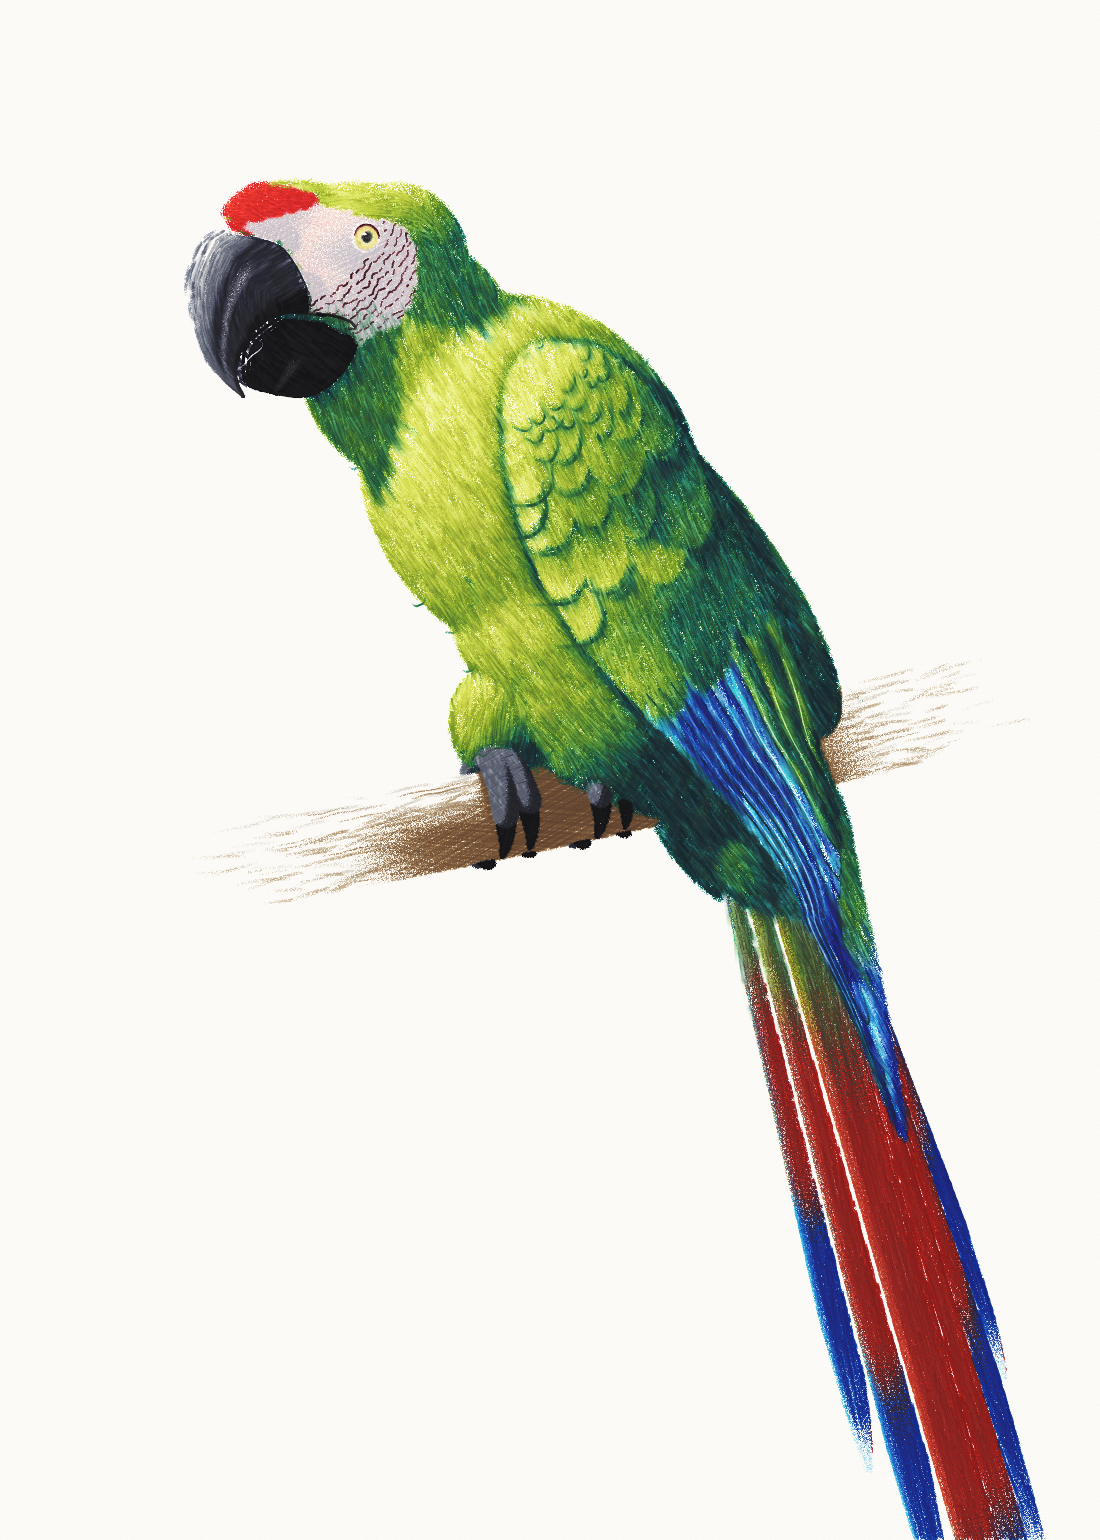
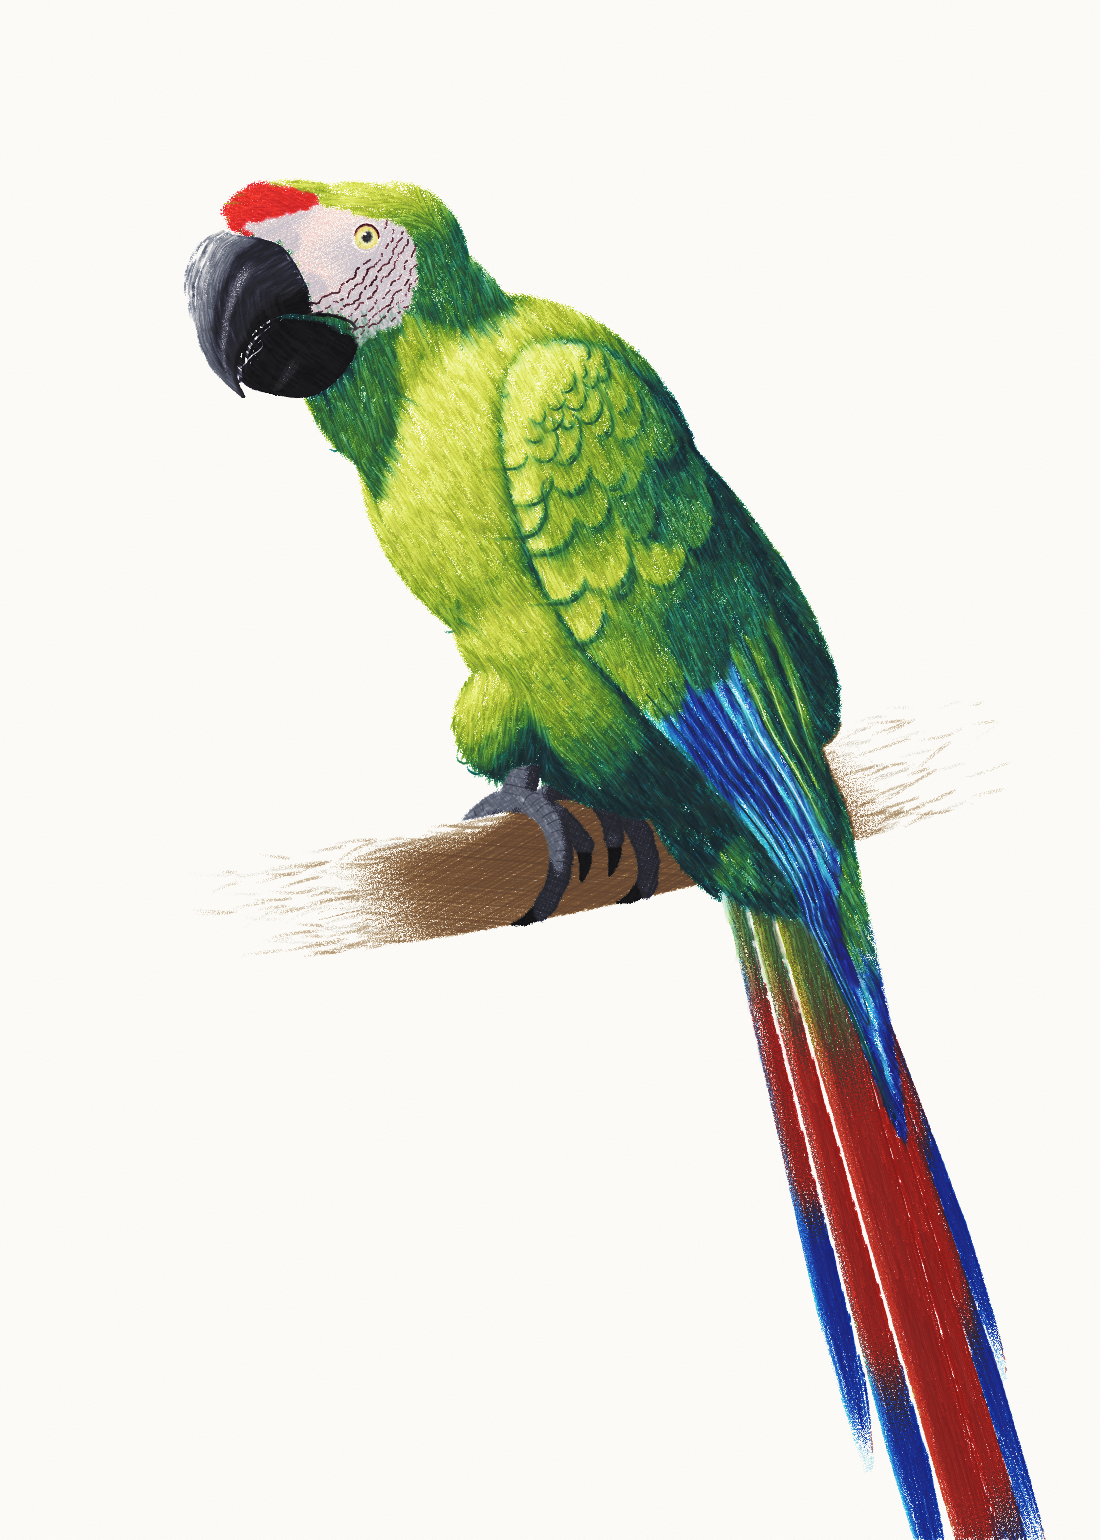
The macaw's feet close round the branch as a parrot's do (joce/fusain#42)
* The macaw's feet close round the branch as a parrot's do

The feet were in a posture no parrot's could take (fusain-58g): the
branch ran along the bird, both feet stood on its middle line one ahead
of the other (0.025 and 0.02 units either side of it), and each put two
toes straight down the near side of the branch and two down the far side;
the toes, 0.28 units thick on a branch 0.68 across (41%), hung below the
belly like the fingers of a glove, no leg was seen, and the claws ended
in blobs under the branch.

Worked from what is known of parrot anatomy (the session could not fetch
reference photographs): the foot is zygodactyl, two toes forward (2, and
3 the longest) and two back (4, long, and the short hind toe 1); the leg
is short, its tarsus coming down from under the thigh's feathers onto the
top of the perch; the toes wrap the perch from both sides, tapering into
curved claws.

The model (macaw_model.py): the branch now crosses under the bird at 45
degrees to the line of its body, its front end toward the viewer, so that
the bird's back is to its near side; its radius is 0.42 (from 0.34),
lowered to keep its top just under the thighs. The feet stand 0.58 apart
across the body, the near (right) one ahead, each under its thigh (the
thighs' sideways places swapped to match: near one ahead, far one
behind). Each foot is a tarsus 0.135 thick from the heel, hidden in the
thigh's feathers, onto the ball of the foot on top of the branch; toes 2
[…]

diff --git a/examples/fusain/macaw_model.py b/examples/fusain/macaw_model.py
@@ -35,7 +35,11 @@ The model: the feathered head and body are ellipsoids melted together (a
 smooth maximum of their depths); each mandible is a surface inflated from
 its measured outline, full width along its base and thin at its cutting
 edge; the folded wing is a shell lying on the body, its lower edge standing
-proud; the tail is six stacked blades; toes and claws wrap a branch. Every
+proud; the tail is six stacked blades. The branch crosses under the bird
+at a slant, and each foot closes round it as a parrot's does (two toes
+forward, two back): a short scaly leg from the thigh's feathers onto its
+top, two toes over it and down its far side, two back down its near side,
+each tapering, swollen a little at its joints, into a curved claw. Every
 pixel seen knows where it lies on the bird, so the face, the brow, the eye,
 the face's feather rows and the bill's lines are laid on the surface and
 turn with it. The feathers are relief on the model (covert rows growing in
@@ -421,11 +425,16 @@ SHOULDER, WING_TIP = (-1.5, -0.86), (-4.42, -6.85)
 #: to show its upper side to the viewer: it hangs steeper than the wing,
 #: so that the wing's tips lie on it.
 TAIL_ROOT, TAIL_HANG, TAIL_LENGTH, TAIL_ROLL = (-3.5, -4.75), 17.0, 7.6, 62.0
-#: The branch: a point on its axis under the feet, its direction (it runs
-#: along the bird, as macaws often stand), its radius; where along it from
-#: that point each foot grips.
-BRANCH_AT, BRANCH_DIR, BRANCH_R = (-1.65, -4.32, 0.0), (0.97, -0.2, 0.06), 0.34
-FEET = (-0.42, 0.34)
+#: The branch: a point on its axis between the feet, its direction and its
+#: radius. It crosses under the bird at a slant, 45 degrees from the line
+#: of its body (a parrot perches square to a branch or, as often, turned
+#: across it), its front end toward the viewer, so that the near side of
+#: the branch is the side the bird's back is to; and it is as thick as the
+#: toes can close round, so that they wrap about two thirds of the way.
+BRANCH_AT, BRANCH_DIR, BRANCH_R = (-1.69, -4.74, 0.0), (0.71, -0.11, 0.7), 0.42
+#: Where along the branch from that point each foot grips: the near (right)
+#: one ahead, the far (left) one behind, a body's width at the legs apart.
+FEET = (0.42, -0.42)
 
 #: The feathered body: centre (x, y), radii (along, across, sideways) and
 #: the direction (degrees) its long axis runs, down from the neck: the
@@ -438,10 +447,11 @@ TORSO = [
     ((-3.2, -4.35), (1.0, 0.65, 0.68), -130.0),
     ((-2.6, -2.4), (1.9, 0.62, 0.8), -130.0),
 ]
-#: The feathered thighs, one over each foot, coming down over its top.
+#: The feathered thighs, one over each foot, coming down over its top: the
+#: far one behind, the near one ahead.
 THIGHS = [
-    ((-2.0, -3.78, 0.16), (0.5, 0.46, 0.4)),
-    ((-1.38, -3.7, -0.04), (0.46, 0.44, 0.38)),
+    ((-2.0, -3.78, -0.16), (0.5, 0.46, 0.4)),
+    ((-1.38, -3.7, 0.1), (0.46, 0.44, 0.38)),
 ]
 
 
@@ -641,45 +651,81 @@ def branch_blobs() -> list[Blob]:
     return chain(spine, r, r, "branch", side=side, overlap=6.0)
 
 
-def toe(centre, turn, along, thick, part="toes"):
-    """A toe round the branch: ``turn`` (from, to) in degrees round its
-    section (90 is the top, 0 the side toward the viewer), ``along`` (from,
-    to) the branch's axis, ``thick`` (from, to) its radius."""
+#: The toes of the near (right) foot, closed round the branch: from where
+#: each leaves the ball of the foot to its tip, how far round the branch's
+#: section it runs (degrees: 90 is the top, 0 the side toward the viewer,
+#: 180 the far side, where the bird's front is), how far along the branch
+#: its tip lies (toward the foot's outer side), how thick it is at its root,
+#: how many joints it bends at, and how far round its claw reaches. Two
+#: forward over the top and down the far side (the outer, 3, longest), two
+#: back down the near side (the outer, 4, long, the hind toe short); the
+#: left foot is their mirror image along the branch.
+TOES = ((110, 226, 0.08, 0.1, 3, 42), (110, 208, -0.22, 0.095, 2, 40),
+        (82, -30, 0.3, 0.1, 4, 48), (82, 18, -0.2, 0.092, 1, 42))  # fmt: skip
+#: The leg of the near foot: where its heel lies from the ball of the foot
+#: (behind it, above it and in toward the body's middle, hidden in the
+#: thigh's feathers), and how thick the scaly tarsus is.
+HEEL, TARSUS = (-0.12, 0.42, -0.14), 0.135
+
+
+def foot(f: float):
+    """The foot gripping ``f`` along the branch: its point on the branch's
+    axis, which way along the branch its outer side lies (+1 or -1), the
+    ball of the foot on top of the branch and the heel above it."""
+    b, up, _ = branch_frame()
+    centre = np.asarray(BRANCH_AT) + b * f
+    outward = 1.0 if f > 0 else -1.0
+    ball = centre + up * (BRANCH_R + 0.05)
+    heel = ball + np.array([HEEL[0], HEEL[1], HEEL[2] * outward])
+    return centre, outward, ball, heel
+
+
+def toe_path(centre, toe_of, outward: float, claw: bool = False, n: int = 16):
+    """A toe of the foot at ``centre`` (on the branch's axis), as it lies
+    round the branch: points along its middle (n, 3), its radius at each,
+    and the direction out from the branch there. ``outward`` is +1 or -1:
+    which way along the branch is the foot's outer side. With ``claw``, the
+    toe's claw instead, from its tip, its point dug into the bark."""
     b, up, side = branch_frame()
-    a = np.radians(np.linspace(turn[0], turn[1], 16))
-    r = BRANCH_R + np.linspace(thick[0], thick[1], 16) * 0.8
-    spine = (
-        centre
-        + np.outer(np.cos(a) * r, side)
-        + np.outer(np.sin(a) * r, up)
-        + np.outer(np.linspace(along[0], along[1], 16), b)
-    )
-    radius = np.linspace(thick[0], thick[1], 16)
-    return chain(spine, radius, radius, part, side=b, overlap=3.0)
-
-
-#: The toes of a foot: round the branch from the top (degrees), sideways
-#: along it, thickness: two over the near side, two over the far side.
-TOES = ((100, 5, 0.1, 0.14), (100, 12, -0.09, 0.14), (95, 215, 0.14, 0.125),
-        (95, 205, -0.16, 0.1))  # fmt: skip
+    start, stop, splay, thick, joints, reach = toe_of
+    t = np.linspace(0.0, 1.0, n)
+    if claw:
+        turn = stop + np.sign(stop - start) * reach * t
+        along = splay * (1.0 + 0.1 * t)
+        radius = thick * (0.64 - 0.56 * t**1.2)
+        lift = 0.55 * radius - 0.03 * t**2
+    else:
+        turn = start + (stop - start) * t
+        along = splay * t**1.3
+        # (thick at its root, thinner to its tip, a little swollen at each
+        # joint)
+        knuckle = 0.07 * np.cos(np.pi * (joints + 1) * t) ** 8 * (t > 0.15)
+        radius = thick * (1.0 - 0.25 * t) * (1.0 + knuckle)
+        lift = 0.55 * radius
+    a = np.radians(turn)
+    out = np.outer(np.cos(a), side) + np.outer(np.sin(a), up)
+    r = (BRANCH_R + lift)[:, None]
+    return centre + out * r + np.outer(along * outward, b), radius, out
 
 
 def feet_blobs() -> list[Blob]:
-    """The two feet gripping the branch, two toes on either side of it, each
-    with its claw, and the short scaly leg from the thigh."""
-    b, up, side = branch_frame()
+    """The two feet gripping the branch: each a short scaly leg from under
+    the thigh's feathers down onto the top of the branch, two toes forward
+    over the far side and two back down the near side, each toe with its
+    claw."""
+    b, _, _ = branch_frame()
     out = []
     for f in FEET:
-        c = np.asarray(BRANCH_AT) + b * f
-        top = c + up * (BRANCH_R + 0.08)
-        leg = np.linspace(top + up * 0.22 + side * 0.04, top, 6)
-        out += chain(leg, [0.15] * 6, [0.14] * 6, "toes", side=b, overlap=3.0)
-        for start, stop, along, th in TOES:
-            out += toe(c, (start, stop), (0.0, along), (th, th * 0.7))
-            end = stop + (-58 if stop < 90 else 58)
-            out += toe(
-                c, (stop, end), (along, along * 1.12), (th * 0.62, 0.018), "claws"
-            )
+        c, outward, ball, heel = foot(f)
+        leg = np.linspace(heel, ball, 7)
+        thick = np.linspace(TARSUS, 0.9 * TARSUS, 7)
+        out += chain(leg, thick, thick, "toes", side=b, overlap=2.0)
+        out.append(blob(ball, (0.14, 0.085, 0.14), "toes", along=b))
+        for toe_of in TOES:
+            spine, radius, _ = toe_path(c, toe_of, outward)
+            out += chain(spine, radius, radius, "toes", side=b, overlap=2.4)
+            spine, radius, _ = toe_path(c, toe_of, outward, claw=True)
+            out += chain(spine, radius, radius, "claws", side=b, overlap=2.4)
     return out
 
 
@@ -1676,28 +1722,32 @@ def draw_tail(model: Model, ink: Marks, rng) -> None:
 
 
 def draw_feet(model: Model, ink: Marks) -> None:
-    """The scales across the toes, as rings; the claws, dark."""
-    b, up, side = branch_frame()
+    """The scales: rings across the toes, close set, and round the leg."""
+    arc = np.radians(np.linspace(-75.0, 75.0, 7))
+    toward = np.linalg.inv(model.pose.view)[:, 2]  # (toward the viewer)
     for f in FEET:
-        c = np.asarray(BRANCH_AT) + b * f
-        for start, stop, along, th in TOES:
-            for a in np.linspace(start, stop, 8)[1:-1]:
-                ang = math.radians(a)
-                frac = (a - start) / (stop - start)
-                r = BRANCH_R + th * (1 - 0.35 * frac) * 0.8
-                centre = (
-                    c
-                    + side * r * math.cos(ang)
-                    + up * r * math.sin(ang)
-                    + b * along * frac
+        c, outward, ball, heel = foot(f)
+        for toe_of in TOES:
+            spine, radius, out = toe_path(c, toe_of, outward, n=14)
+            for k in range(1, 13):
+                across = np.cross(spine[k + 1] - spine[k - 1], out[k])
+                across /= np.linalg.norm(across)
+                ring = spine[k] + 1.04 * radius[k] * (
+                    np.outer(np.cos(arc), out[k]) + np.outer(np.sin(arc), across)
                 )
-                radial = side * math.cos(ang) + up * math.sin(ang)
-                ring = [
-                    centre + radial * th * (1 - 0.35 * frac) * q + b * th * 0.9 * w
-                    for q, w in ((1.0, -1.0), (1.25, 0.0), (1.0, 1.0))
-                ]
-                pts = model.pose.to_sheet(np.array(ring))
-                draw3d(ink, model, pts, 1.3, [0.1, 0.5, 0.1], 4.0, ("toes",))
+                pts = model.pose.to_sheet(ring)
+                draw3d(ink, model, pts, 1.2, 0.45, 3.0, ("toes",))
+        across = np.cross(heel - ball, toward)
+        across /= np.linalg.norm(across)
+        for s in np.linspace(0.15, 0.9, 6):
+            ring = (
+                ball
+                + (heel - ball) * s
+                + TARSUS
+                * (np.outer(np.sin(arc), across) + np.outer(np.cos(arc), toward))
+            )
+            pts = model.pose.to_sheet(ring)
+            draw3d(ink, model, pts, 1.2, 0.4, 3.0, ("toes",))
 
 
 # ----------------------------------------------------------------------

diff --git a/examples/fusain/macaw.py b/examples/fusain/macaw.py
@@ -12,7 +12,10 @@ holds a solid model of it whose shapes were measured on reference
 photographs (the bill's arch and hook, the bare face and its rows of tiny
 feathers, the red forehead, the eye set high on a flat head, the folded
 wing and where its coverts end, the tail), posed and lit from the upper
-left, with its cast shadows. Every pixel of the sheet knows where it lies
+left, with its cast shadows. It perches as a parrot does, across a branch
+at a slant: each foot a short scaly leg from under the thigh's feathers,
+two toes forward over the top of the branch and two back down its near
+side, the claws curving under. Every pixel of the sheet knows where it lies
 on the bird: how much light it takes, what colour the bird is there, and
 which way its feathers run.
 
@@ -1100,11 +1103,15 @@ def draw_eye_skin(hand: Hand, bird: Bird) -> None:
 
 
 def draw_feet(hand: Hand, bird: Bird) -> None:
-    """The feet gripping the branch: thick dark grey toes, rounded under the
-    light, ringed with scales; long dark curved claws."""
+    """The feet gripping the branch: the short legs and the thick toes dark
+    grey, rounded under the light and darkest toward their edges in the
+    belly's soft shadow, ringed with scales; the curved claws dark."""
     toes, claws = bird.part["toes"], bird.part["claws"]
-    s = bird.shade
-    hand.tone(CHAR, toes * band(s, 0.45, 0.85), 0.72, (70, -20), 2.4)
+    # (the shadow the feathers cast over the feet has a soft edge)
+    s = soft(bird.shade * toes, 3) / np.maximum(soft(toes, 3), 1e-6) * toes
+    rim = band(bird.model.seen.normal[..., 2], 0.8, 0.25)
+    dark = toes * band(s, 0.45, 0.85) * (0.55 + 0.45 * rim)
+    hand.tone(CHAR, dark, 0.72, (70, -20), 2.4)
     hand.tone(SLATE, toes * 1.0, 0.58, (30, -50), 2.4)
     hand.tone(GREY, toes * (1 - band(s, 0.3, 0.6)), 0.45, (110,), 2.4)
     mm.draw_feet(bird.model, Pencil(hand, CHAR, 1.7))
